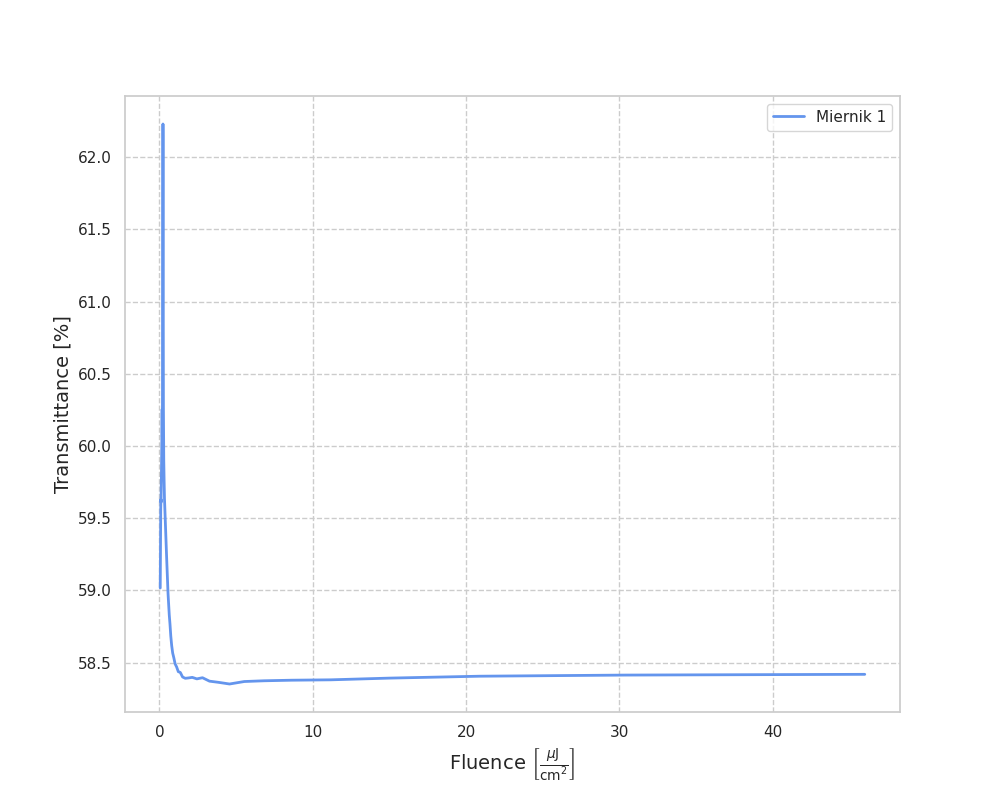
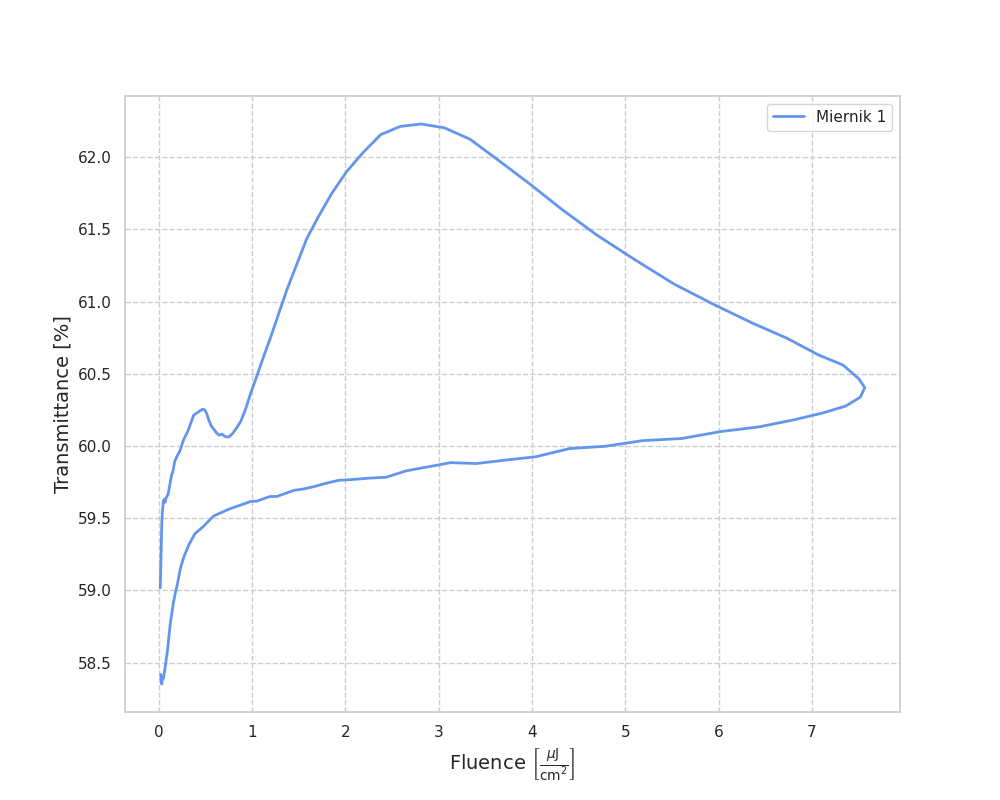
analiza danych 290725 2

diff --git a/!wyniki/3transmittance_vs_position.py b/!wyniki/3transmittance_vs_position.py
@@ -1,0 +1,40 @@
+import matplotlib.pyplot as plt
+import numpy as np
+import pandas as pd
+import os
+
+# wpisz ścieżkę do katalogu z danymi
+my_path = r'/workspaces/Rezonatory2025/!wyniki/290725_reference'
+# wpisz nazwę pliku
+file = r'power-meter_reference_290725.csv'
+# wpisz nazwę pliku do zapisu wykresu
+file_save = r'power-meter_reference_290725_plot.png'
+
+data = pd.read_csv(os.path.join(my_path, file))
+df = pd.DataFrame(data)
+
+P1 = df['Power1 [W]']*1000 #W -> mW
+P2 = df['Power2 [W]']*1000 #W -> mW
+z = df['Position [mm]']
+
+'''POWER BEFORE'''
+P_norm = 0.456 #W
+
+'''POWER REFLECTED'''
+P_ref = 0.006
+
+'''POWER TRANSMITTED'''
+P_trans = 0.444
+
+'''NORMALIZATION'''
+# P1 = P1 / P1.max()
+# P2 = P2 / P2.max()
+
+plt.plot(z, P1, color='chocolate')
+# plt.plot(z, P2, color='darkblue')
+plt.xlabel('Pozycja [mm]')
+plt.ylabel('Moc [W]')
+plt.xlim(0,46.5)
+plt.grid(linestyle='--')
+plt.savefig(os.path.join(my_path, file_save))
+plt.show()

diff --git a/!wyniki/1transmittance_vs_fluence_plot.py b/!wyniki/1transmittance_vs_fluence_plot.py
@@ -47,8 +47,8 @@ z2_maxT = z_sample[np.argmax(T2)]
 z1_shift = z_min - z1_maxT
 z2_shift = z_min - z2_maxT
 
-z1_cal = z_cal + z1_shift
-z2_cal = z_cal + z2_shift
+z1_cal = z_cal - z1_shift
+z2_cal = z_cal - z2_shift
 
 '''FITTING'''
 
@@ -110,7 +110,7 @@ sns.set(style="whitegrid")
 plt.figure(figsize=(10,8))
 # plt.plot(Fx1, T1, color='cornflowerblue', linewidth=2, label='Pomiar w osi X')
 # plt.plot(Fy1, T1, color='coral', linewidth=2, label='Pomiar w osi Y')
-plt.plot(Fy1, T1, color='cornflowerblue', linewidth=2, label='Miernik 1')
+plt.plot(Fy2, T1, color='cornflowerblue', linewidth=2, label='Miernik 1')
 # plt.plot(Fx2, T2, color='coral', linewidth=2, label='Miernik 2')
 
 plt.xlabel(r"Fluence $\left[\frac{ μ\text{J}}{\text{cm}^2}\right]$", fontsize=14)
